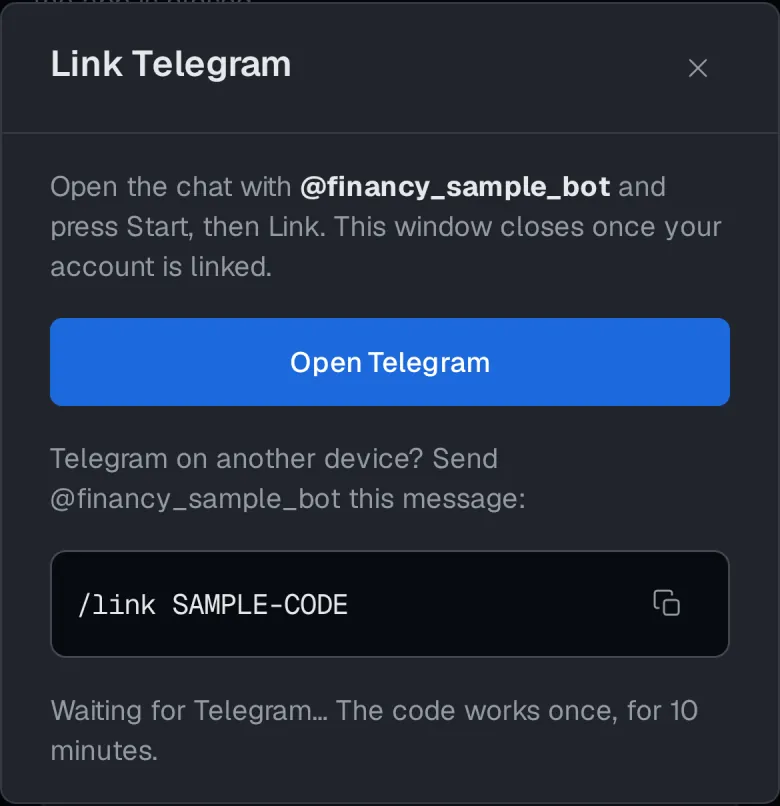
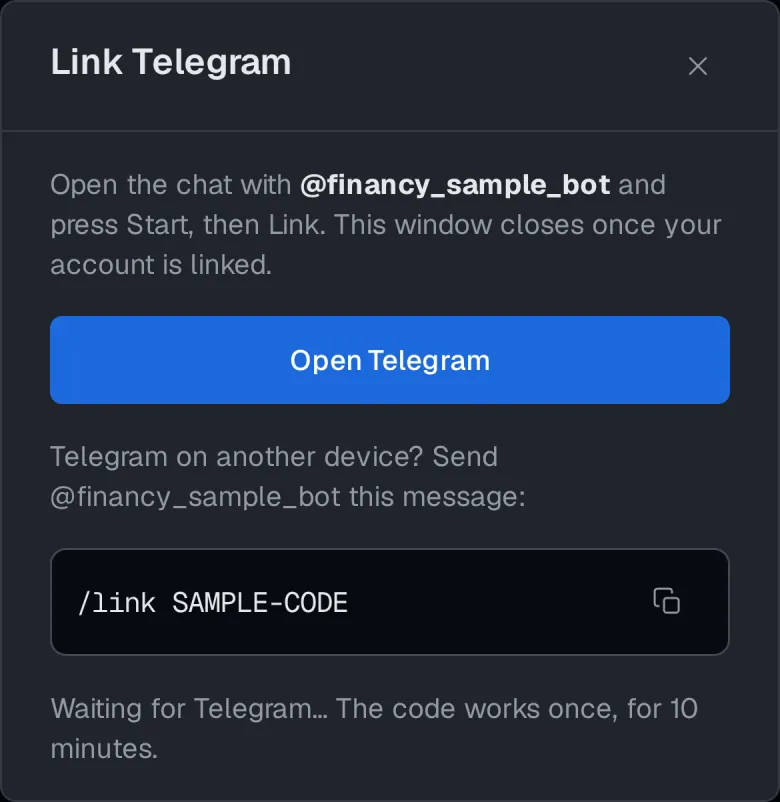
fix(site): crop the Telegram picture to its dialog

diff --git a/apps/mpa/screenshots/capture.ts b/apps/mpa/screenshots/capture.ts
@@ -441,8 +441,8 @@ async function scrollToTop(target: Locator): Promise<void> {
   })
 }
 
-/** Waits until the page is still, then writes the master PNG of `clip`. */
-async function snap(page: Page, name: string, clip: Clip): Promise<void> {
+/** Waits until the page is still, then writes the master PNG of the screen's crop. */
+async function snap(page: Page, name: string, screen: Screen): Promise<void> {
   await page.addStyleTag({ content: STEADY_CSS })
   await page.waitForLoadState("networkidle")
   await page.evaluate(() => document.fonts.ready)
@@ -452,6 +452,9 @@ async function snap(page: Page, name: string, clip: Clip): Promise<void> {
   const viewport = page.viewportSize()!
   await page.mouse.move(viewport.width - 2, viewport.height / 2)
   await page.waitForTimeout(300)
+  // Measured here, because a dialog stands still only once its animation is off.
+  const clip = typeof screen.clip === `function` ? await screen.clip(page) : screen.clip
+  await expectInsideClip(screen.last(page), clip)
   await page.screenshot({
     path: `${MASTERS}/${name}.png`,
     animations: "disabled",
@@ -471,8 +474,11 @@ interface Clip {
 /** A screen of the sample household: opened in each theme, waited for, checked and arranged. */
 interface Screen {
   name: string
-  /** The part of the viewport the picture keeps. Its height is also in the website's data. */
-  clip: Clip
+  /**
+   * The part of the viewport the picture keeps, or how to measure it on the open screen. Its height
+   * is also in the website's data.
+   */
+  clip: Clip | ((page: Page) => Promise<Clip>)
   open(page: Page, seeded: Seeded): Promise<void>
   /** Throws when the screen does not show what the website's alt text says it shows. */
   check(page: Page): Promise<void>
@@ -686,8 +692,8 @@ const SCREENS: Screen[] = [
   },
   {
     name: "feature-telegram-bot",
-    // The dialog alone.
-    clip: { x: 0, y: 221, width: 390, height: 403 },
+    // The dialog alone: the page behind it never shows along an edge.
+    clip: (page) => dialogBox(page.locator(`[data-e2e=telegram-code-dialog]`)),
     async open(page, seeded) {
       // The development stack has no bot: these are the two answers a running one gives.
       await page.route(`**/api/telegram`, (route) =>
@@ -727,6 +733,19 @@ async function attempt(name: string, shoot: () => Promise<void>): Promise<void> 
   }
 }
 
+/**
+ * The box a centred dialog fills. A dialog of an odd height centres on half a pixel, where a crop
+ * would either cut its border or keep a line of the page behind it, so it moves up to a whole one.
+ */
+async function dialogBox(dialog: Locator): Promise<Clip> {
+  await dialog.evaluate((element: HTMLElement) => {
+    element.style.marginTop = `${Math.floor(element.getBoundingClientRect().top)}px`
+  })
+  const box = await dialog.boundingBox()
+  if (!box) throw new Error(`the dialog to crop to is not on the screen`)
+  return box
+}
+
 /** Throws when `last` ends below the picture's crop, so a taller screen cannot lose its end. */
 async function expectInsideClip(last: Locator, clip: Clip): Promise<void> {
   const box = await last.boundingBox()
@@ -755,8 +774,7 @@ async function captureScreens(browser: Browser, contexts: BrowserContext[], seed
             throw new Error(`the stack has no rate for EUR, USD, GBP or THB`)
           }
           await screen.check(page)
-          await expectInsideClip(screen.last(page), screen.clip)
-          await snap(page, name, screen.clip)
+          await snap(page, name, screen)
         } finally {
           await screen.after?.(seeded)
           await page.context().close()

diff --git a/apps/mpa/features-data.tsx b/apps/mpa/features-data.tsx
@@ -619,7 +619,7 @@ export const FEATURE_PAGES: readonly FeaturePage[] = [
     ],
     shot: {
       name: `feature-telegram-bot`,
-      height: 806,
+      height: 802,
       alt: `FeaturePageTelegramBot.alt`,
       caption: `FeaturePageTelegramBot.caption`,
     },

diff --git a/apps/mpa/screenshots/README.md b/apps/mpa/screenshots/README.md
@@ -53,7 +53,7 @@ Every screen is delivered at 780 and 390 px wide.
 | `feature-self-hosting` | `/features/self-hosting`                  | System, in the admin panel | 1408          |
 | `feature-transfers`    | `/features/transfers`                     | Transfer editor            | 1504          |
 | `feature-budgets`      | `/features/budgets`                       | Budgets                    | 880           |
-| `feature-telegram-bot` | `/features/telegram-bot`                  | Link Telegram dialog       | 806           |
+| `feature-telegram-bot` | `/features/telegram-bot`                  | Link Telegram dialog       | 802           |
 
 A crop's height is written twice: as its `clip` in `capture.ts`, and at twice the size in
 `audience-data.ts` or `features-data.tsx`. Change both together; `feature-pages.test.ts` fails when
